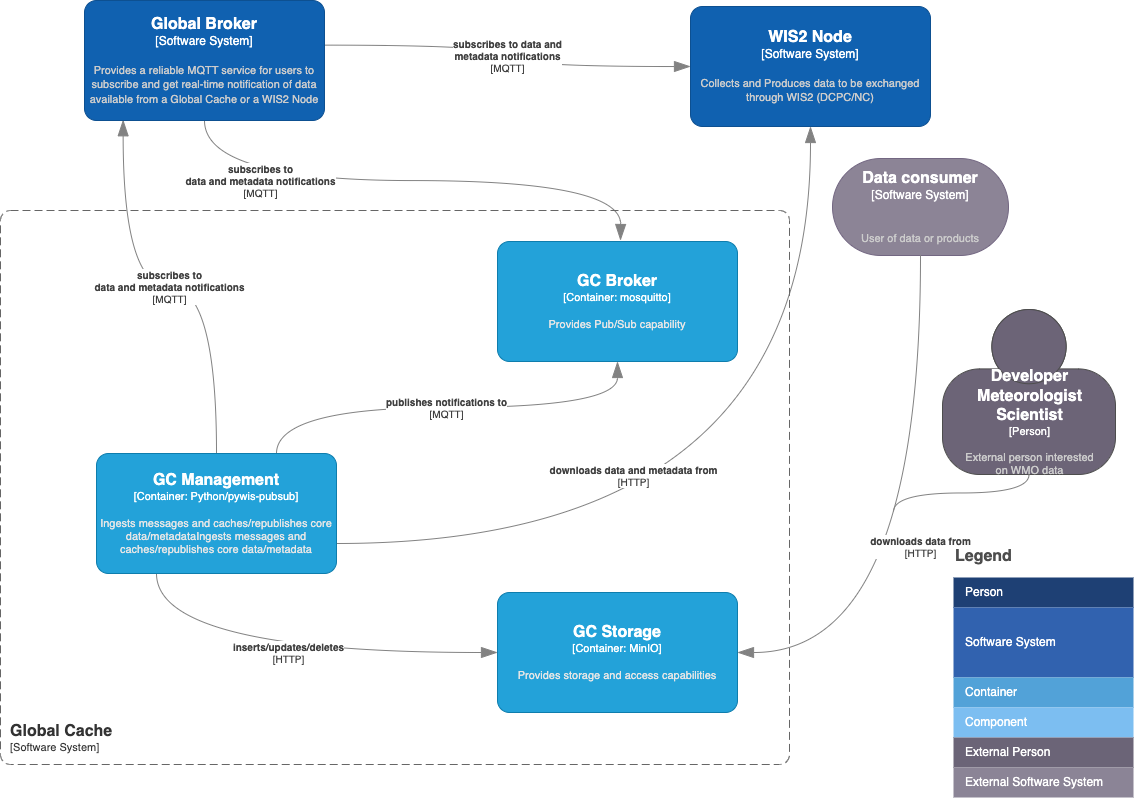
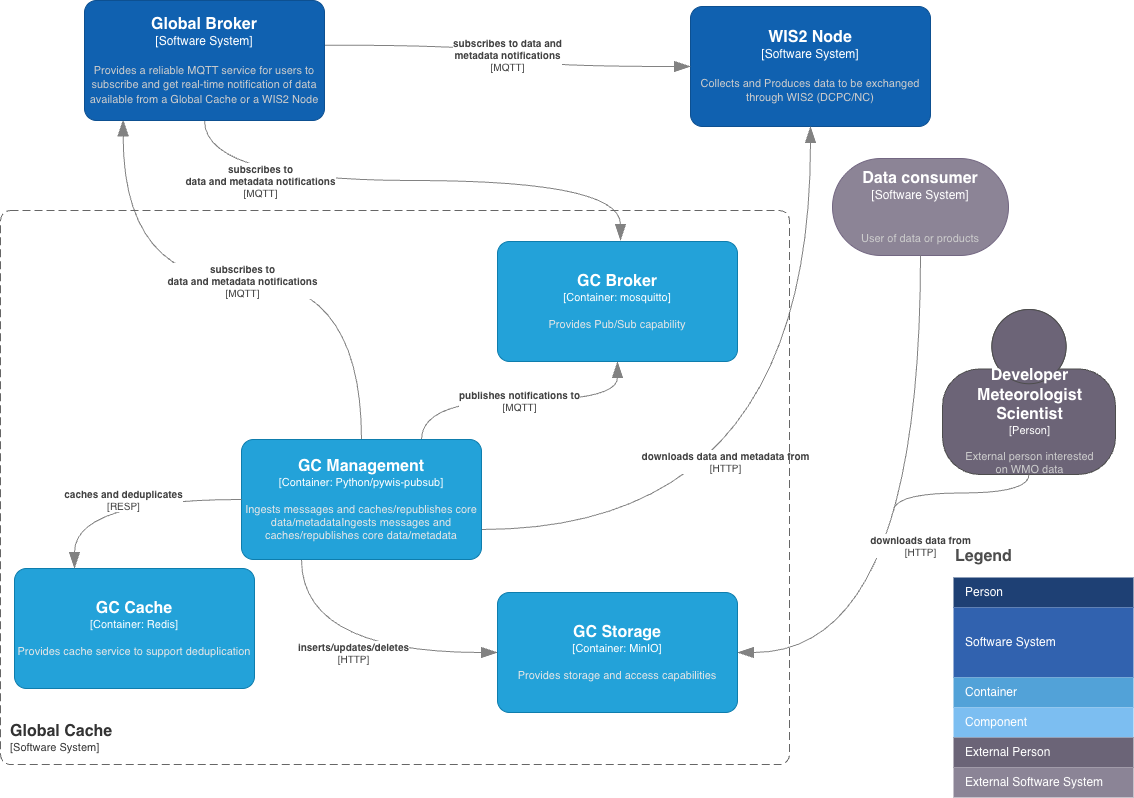
add cache service/deduplication

diff --git a/wis2-gc-management/wis2_gc/hook.py b/wis2-gc-management/wis2_gc/hook.py
@@ -22,8 +22,10 @@ import logging
 
 from pywis_pubsub.hook import Hook
 from pywis_pubsub.mqtt import MQTTPubSubClient
+import redis
 
 from wis2_gc.cacher import Cacher
+from wis2_gc.env import CACHE_URL, CACHE_RETENTION_SECONDS
 from wis2_gc.env import BROKER_URL
 
 LOGGER = logging.getLogger(__name__)
@@ -31,6 +33,24 @@ LOGGER = logging.getLogger(__name__)
 
 class DataMetadataHook(Hook):
     def execute(self, topic: str, msg_dict: dict) -> None:
+
+        self.cache = redis.Redis().from_url(CACHE_URL)
+
+        LOGGER.debug('Checking for duplicate message')
+        if self.cache.get(msg_dict['id']) is not None:
+            msg = f"Duplicate message {msg_dict['id']}; discarding"
+            LOGGER.info(msg)
+            return
+        else:
+            msg = f"New message {msg_dict['id']}; adding"
+            LOGGER.info(msg)
+            self.cache.set(
+                msg_dict['id'],
+                msg_dict['properties']['data_id'],
+                nx=True,
+                ex=CACHE_RETENTION_SECONDS
+            )
+
         LOGGER.debug('Data and metadata hook execution begin')
         m = self.client or MQTTPubSubClient(BROKER_URL)
         c = Cacher()

diff --git a/wis2-gc-management/wis2_gc/env.py b/wis2-gc-management/wis2_gc/env.py
@@ -22,8 +22,12 @@
 import os
 
 URL = os.environ.get('WIS2_GC_URL')
-STORAGE_DATA_RETENTION_DAYS = os.environ.get(
-    'WIS2_GC_STORAGE_DATA_RETENTION_DAYS')
+CACHE_URL = os.environ.get('WIS2_GC_CACHE_URL')
+CACHE_RETENTION_SECONDS = int(os.environ.get(
+    'WIS2_GC_CACHE_RETENTION_SECONDS', 86400))
+
+STORAGE_DATA_RETENTION_DAYS = int(os.environ.get(
+    'WIS2_GC_STORAGE_DATA_RETENTION_DAYS', 1))
 
 STORAGE_URL = os.environ.get('WIS2_GC_STORAGE_URL')
 STORAGE_PATH = os.environ.get('WIS2_GC_STORAGE_PATH')

diff --git a/README.md b/README.md
@@ -12,6 +12,8 @@ wis2-gc is a Reference Implementation of a WIS2 Global Cache.
   - `origin/a/wis2/+/data/core/#`
   - `origin/a/wis2/+/metadata/#`
 - on all notifications:
+  - check for message duplication
+  - check for data duplication
   - download and store data to object storage
   - publish notification of cached object
 
@@ -74,6 +76,7 @@ The Docker setup uses Docker and Docker Compose to manage the following services
 - **wis2-gc-management**: management service to ingest and process notification messages, download data and publish messages against `cache/a/wis2/...`
   - the default Global Broker connection is to NOAA.  This can be modified in `wis2-gc.env` to point to a different Global Broker
 - **wis2-gc-storage**: storage and access capability
+- **wis2-gc-cache**: message cache (default Redis)
 
 See [`wis2-gc.env`](wis2-gc.env) for default environment variable settings.
 
